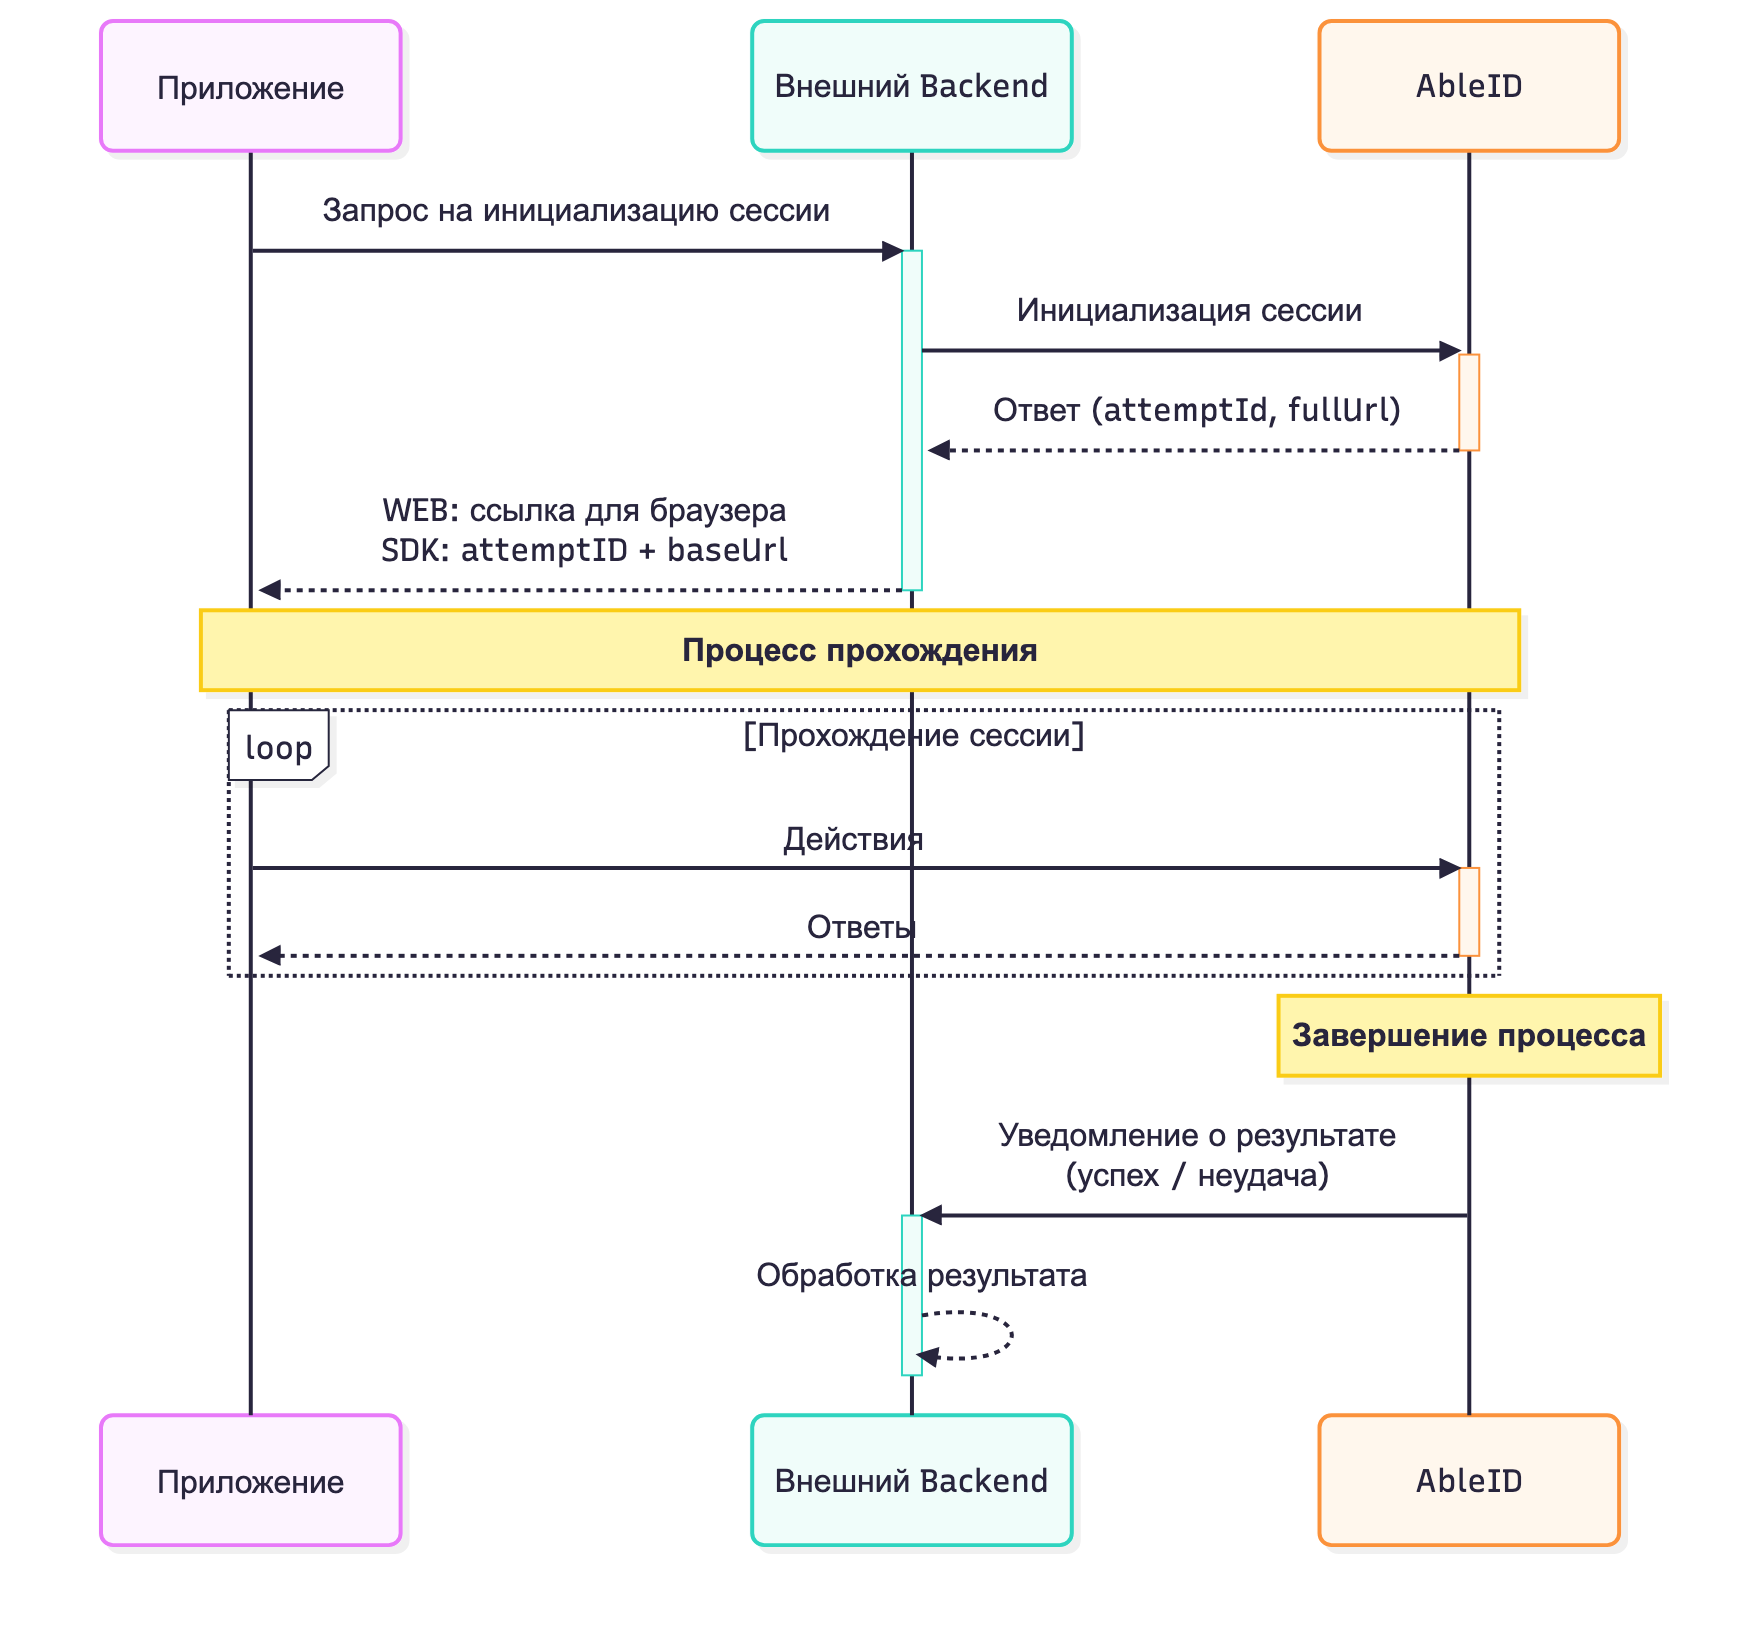
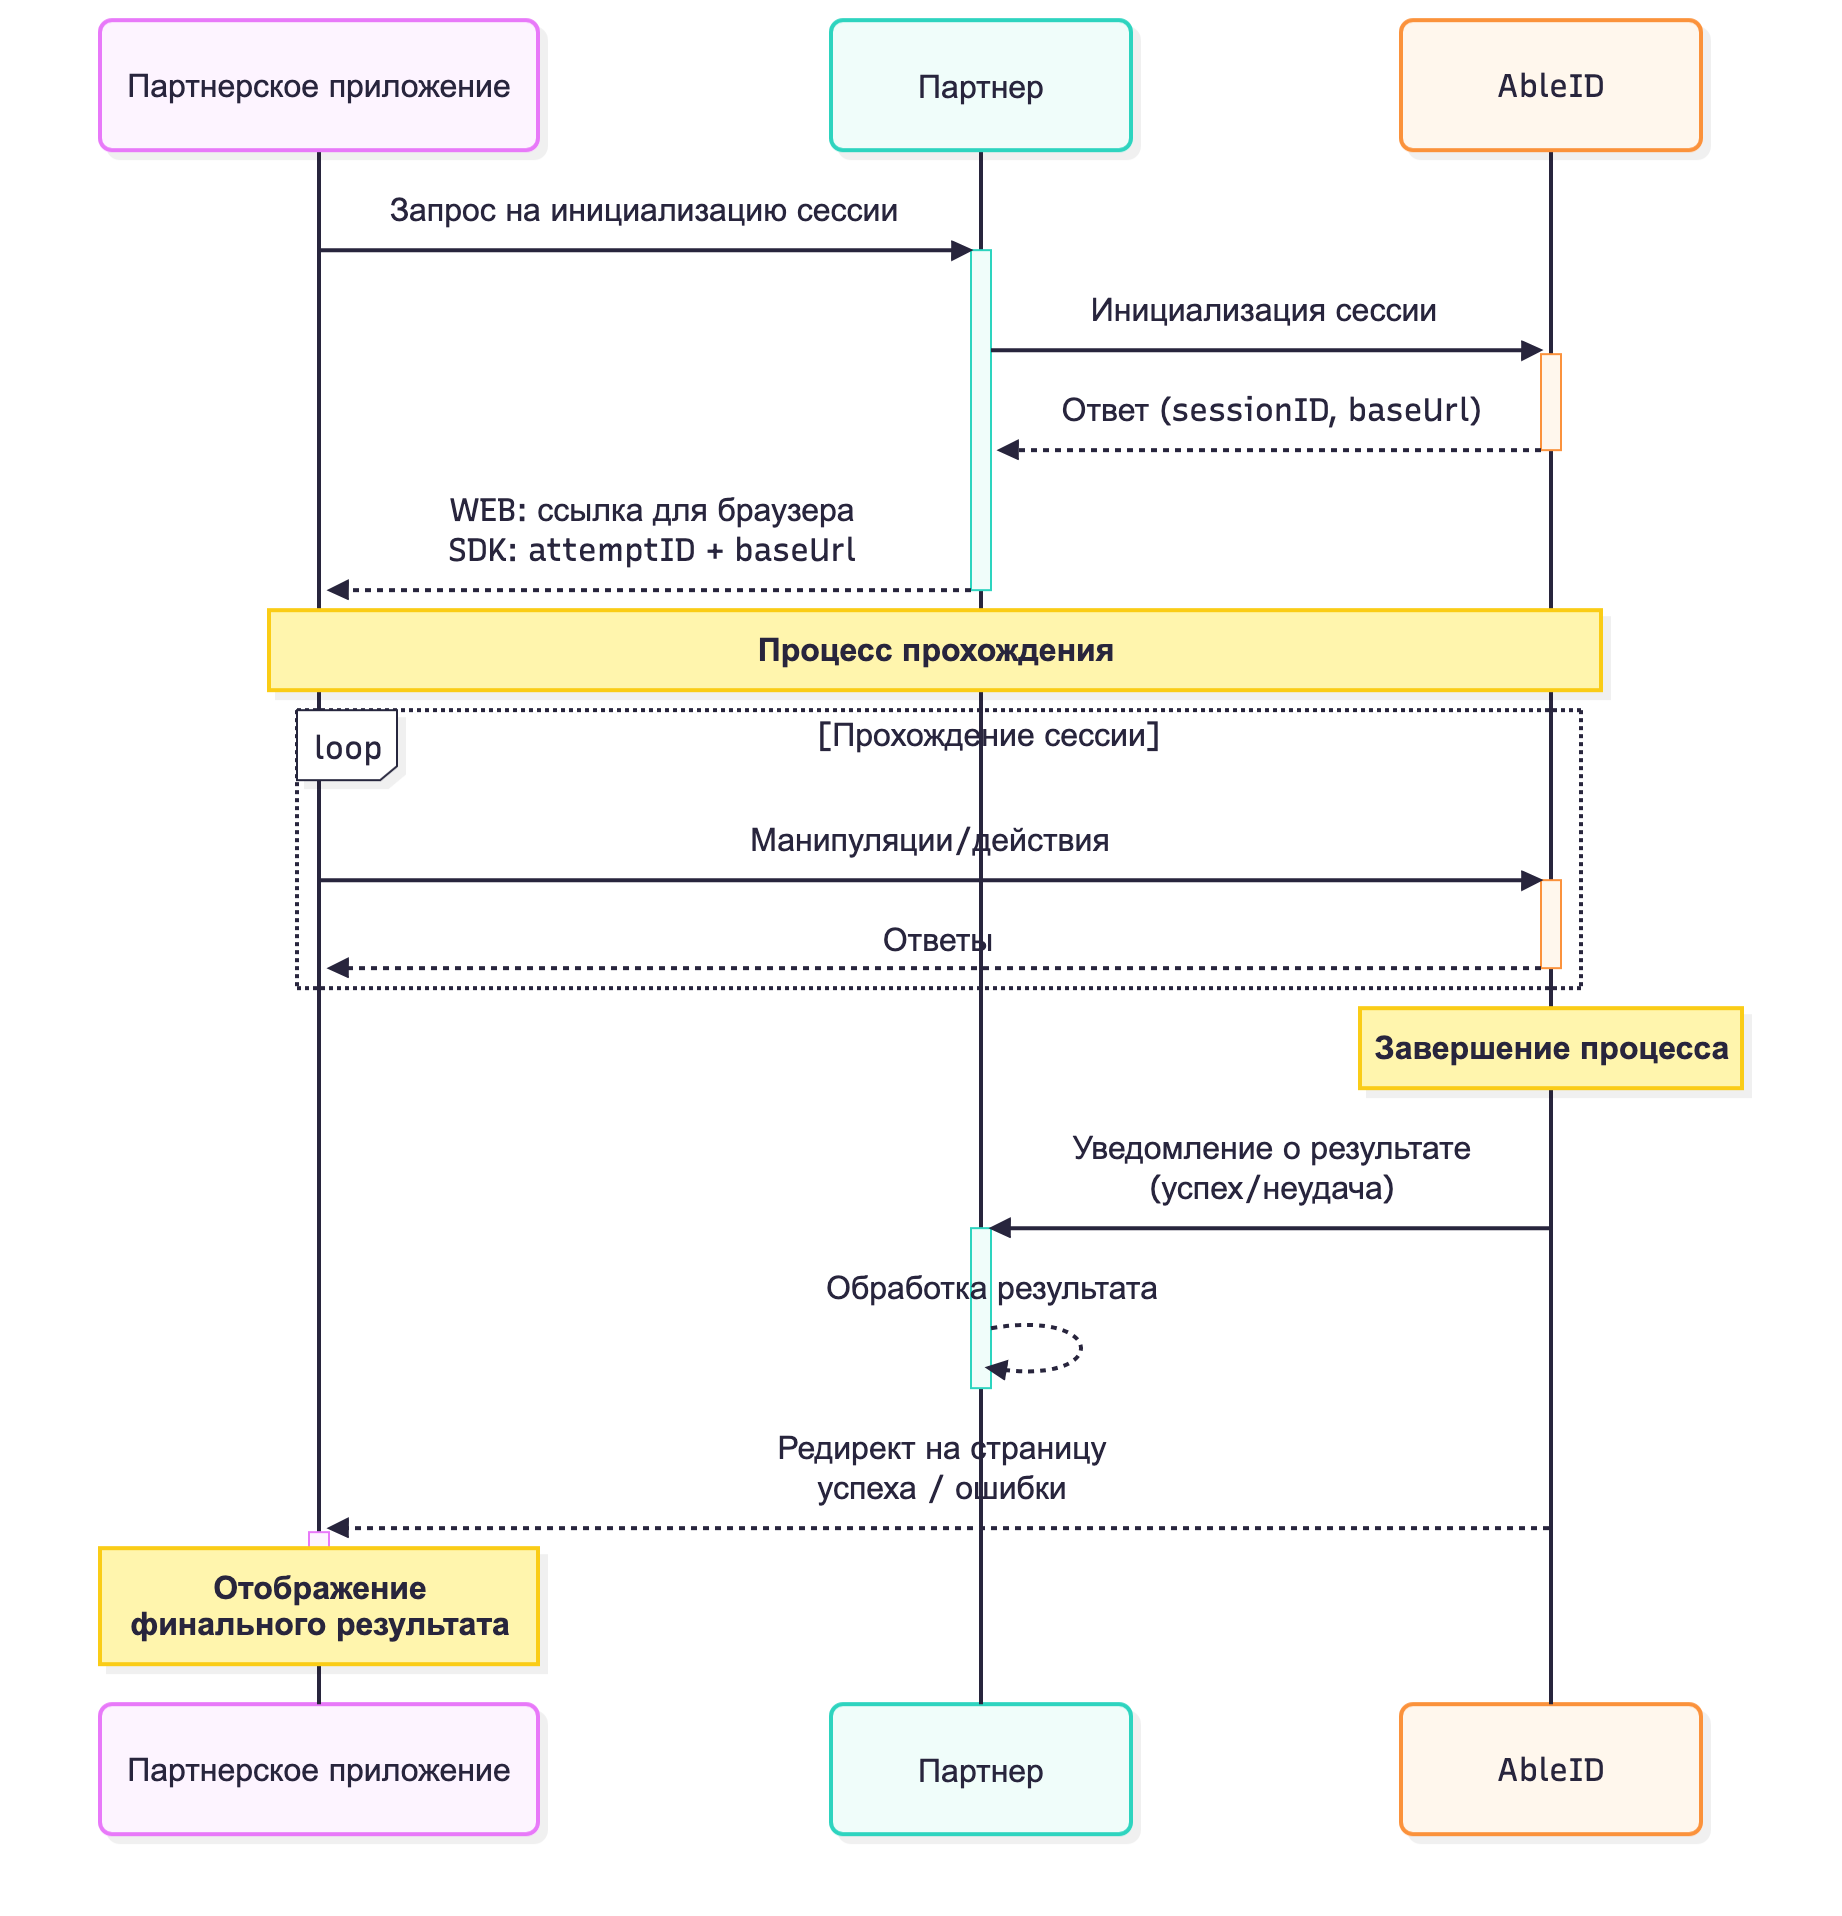
Update docs

Changed region(s): [[0.0312, 0.0, 0.9682, 0.9521], [0.0312, 0.7678, 0.3123, 0.9521]]

diff --git a/sidebars.js b/sidebars.js
@@ -6,6 +6,10 @@ module.exports = {
         },
         {
             type: 'doc',
+            id: 'schema',
+        },
+        {
+            type: 'doc',
             id: 'ableid',
         },
         {

diff --git a/docs/schema.md b/docs/schema.md
@@ -1,0 +1,35 @@
+---
+id: schema
+title: Схема взаимодействия
+---
+
+## Схема взаимодействия
+![Схема взаимодействия](/img/schema.png)
+
+## 1. Инициализация сессии
+
+Партнерское приложение отправляет запрос в партнерский backend для инициализации новой сессии. Партнерский backend выполняет следующие действия:
+
+- Создает запрос к AbleID на инициализацию сессии, указывая тип пользователя (резидент или нерезидент)
+    - **Резидент**: ПИНФЛ + Дата рождения
+    - **Нерезидент**: Серия и номер паспорта
+- Получает от AbleID параметры сессии: идентификатор (attemptId) и URL для загрузки интерфейса в WebView (fullUrl)
+    - Время жизни сессии 10 мин
+- Возвращает в партнерское приложение данные в зависимости от типа интеграции:
+    - **WEB**: Прямая ссылка для открытия в браузере
+    - **SDK**: Идентификатор сессии и домен для выполнения процесса
+
+## 2. Фаза обработки
+
+На этапе обработки WEB/SDK осуществляет прямое взаимодействие с AbleID
+
+## 3. Завершение и уведомление
+
+По завершении процесса обработки:
+
+1. **AbleID → Партнерский backend**: при наличии переданных webhook параметров отправляется уведомление о результате выполнения (успех или ошибка)
+2. **AbleID → Партнерское приложение**: выполняется редирект на соответствующую страницу:
+    - Страница успешного завершения или ошибки
+    - В случае WEB-интеграции AbleID отправляет postMessage с параметрами:
+      - Тип: redirect
+      - URL: адрес для перенаправления пользователя

diff --git a/docs/_sidebar.md b/docs/_sidebar.md
@@ -5,6 +5,7 @@
 <h2 style="margin-left: 15px;">Документация AbleID</h2>
 
 - [Главная](/)
+- [Схема взаимодействия](/schema.md)
 - [Able ID](ableid.md)
 - [Able P2P](p2p.md)
 - [Able Pay](ablepay.md)

diff --git a/docs/home.md b/docs/home.md
@@ -3,9 +3,6 @@ id: home
 title: Главная
 ---
 
-## Схема взаимодействия
-![Схема взаимодействия](/img/schema.png)
-
 ## Описание работы с AbleID
 
 **Base URLs:**  
